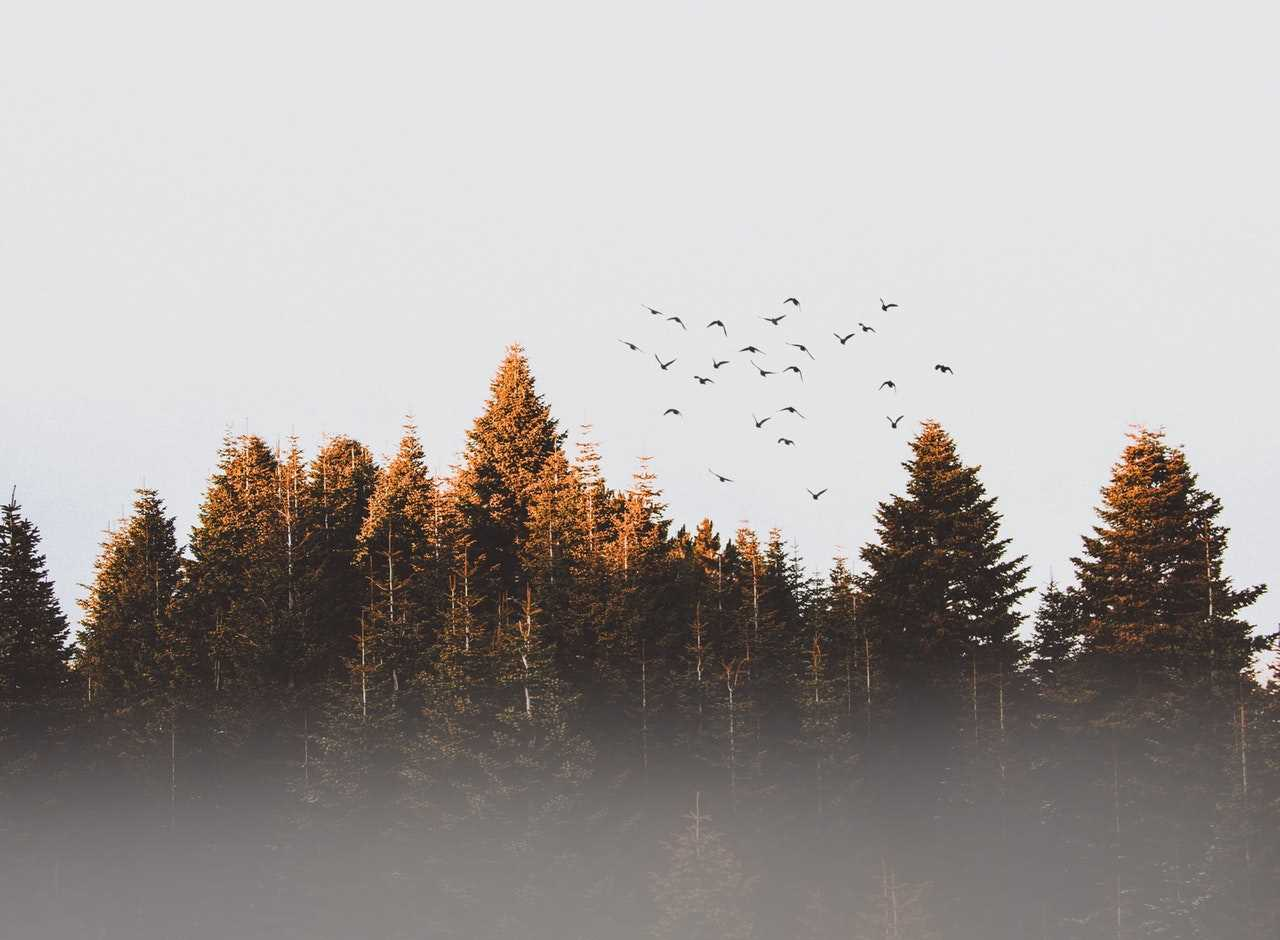
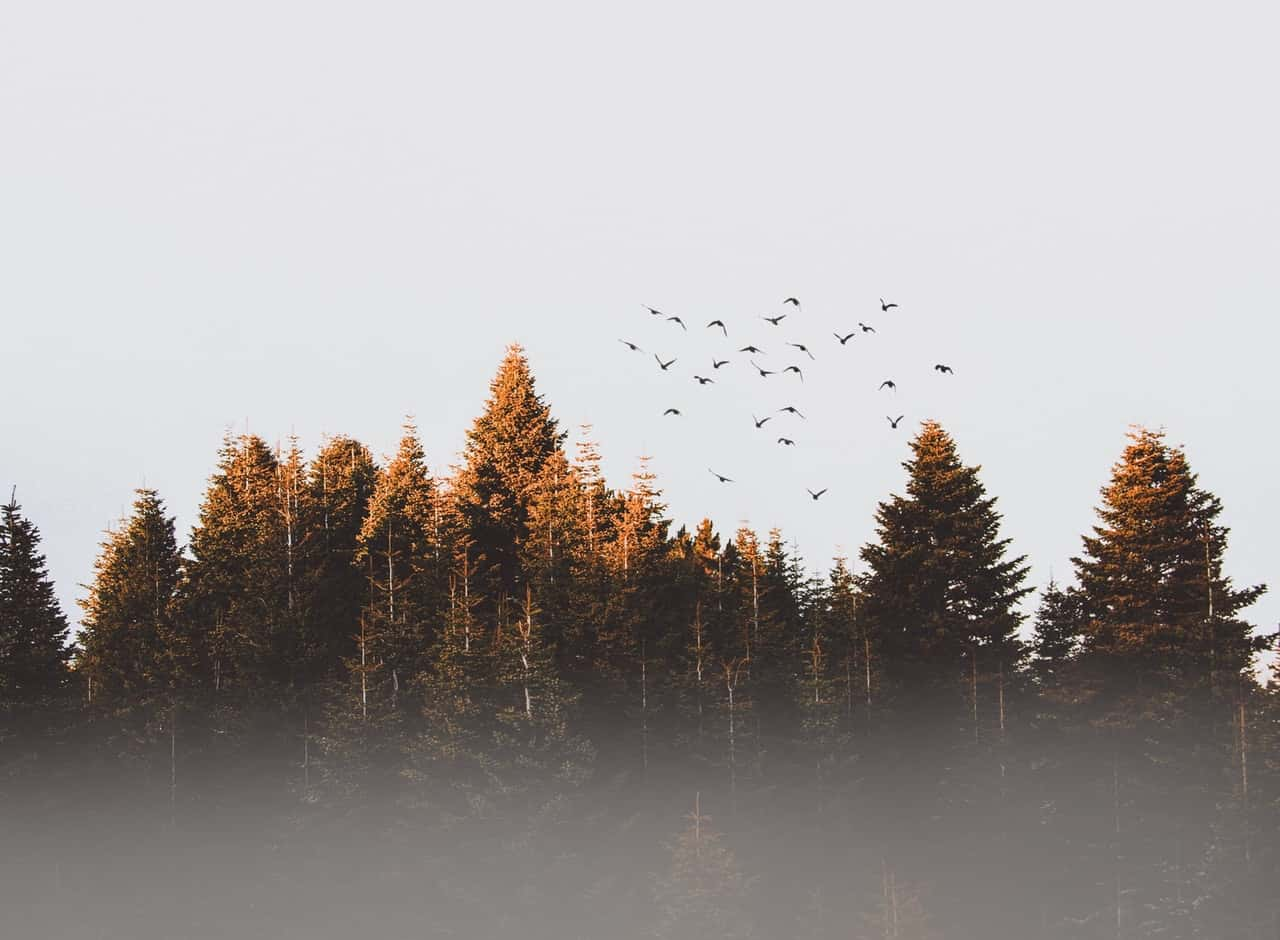
use progressive jpeg images

diff --git a/src/homepage.js b/src/homepage.js
@@ -3,36 +3,7 @@ import {Button, Container, Divider, Grid, Header, Image, List, Segment,} from 's
 
 const HomepageLayout = () => (
     <React.Fragment>
-            <Segment style={{padding: '8em 0em'}} vertical>
-                <Grid container stackable verticalAlign='middle'>
-                    <Grid.Row>
-                        <Grid.Column width={8}>
-                            <Header as='h3' style={{fontSize: '2em'}}>
-                                We Help Companies and Companions
-                            </Header>
-                            <p style={{fontSize: '1.33em'}}>
-                                We can give your company superpowers to do things that they never thought possible.
-                                Let us delight your customers and empower your needs... through pure data analytics.
-                            </p>
-                            <Header as='h3' style={{fontSize: '2em'}}>
-                                We Make Bananas That Can Dance
-                            </Header>
-                            <p style={{fontSize: '1.33em'}}>
-                                Yes that's right, you thought it was the stuff of dreams, but even bananas can be
-                                bioengineered.
-                            </p>
-                        </Grid.Column>
-                        <Grid.Column floated='right' width={6}>
-                            <Image bordered rounded size='large' src='/images/wireframe/white-image.png'/>
-                        </Grid.Column>
-                    </Grid.Row>
-                    <Grid.Row>
-                        <Grid.Column textAlign='center'>
-                            <Button size='huge'>Check Them Out</Button>
-                        </Grid.Column>
-                    </Grid.Row>
-                </Grid>
-            </Segment>
+
 
             <Segment style={{padding: '0em'}} vertical>
                 <Grid celled='internally' columns='equal' stackable>

diff --git a/src/pages/Home.js b/src/pages/Home.js
@@ -1,10 +1,28 @@
 import React from 'react';
+import {Grid, Header, Segment} from "semantic-ui-react";
+import SideBar from "../components/SideBar";
 
 const Home = () => {
     return (
-        <div>
-            <div style={{background : `url(${require('../images/13.jpg')})` , height:'150vh'}} />
-        </div>
+        <React.Fragment>
+            <Segment>
+                <Grid verticalAlign="middle" stackable divided="vertically">
+                    <Grid.Row color='grey'>
+                        <Grid.Column width={4}>
+                            <SideBar/>
+                        </Grid.Column>
+                        <Grid.Column width={8} floated="right">
+                            <h1>right side of the page</h1>
+                        </Grid.Column>
+                    </Grid.Row>
+                </Grid>
+            </Segment>
+            <Segment>
+                <Header as="h1" >
+                    new part of the site
+                </Header>
+            </Segment>
+        </React.Fragment>
     );
 };
 

diff --git a/src/App.js b/src/App.js
@@ -1,20 +1,17 @@
 import React, {Suspense} from 'react';
 import {Route, Switch} from 'react-router-dom';
-// import 'semantic-ui-css/semantic.min.css';
-import 'semantic-ui-offline/semantic.min.css'; //use offline version of google fonts
-import NavBarTitle from "./components/NavBar/NavBarTitle";
+import 'semantic-ui-css/semantic.min.css';
+import NavBar from "./components/NavBar/NavBar";
 
 const Home = React.lazy(() => import( "./pages/Home"));
 const Rezome = React.lazy(() => import("./pages/Rezome"));
 const PageNotFound = React.lazy(() => import("./pages/PageNotFound"));
-const NavBar = React.lazy(() => import("./components/NavBar/NavBar"));
+
 
 function App() {
     return (
         <div>
-            <Suspense fallback={<NavBarTitle/>}>
-                <NavBar/>
-            </Suspense>
+            <NavBar/>
             <Suspense fallback={<div>Loading...</div>}>
                 <Switch>
                     <Route exact path="/" component={Home}/>

diff --git a/src/components/ListCard.js b/src/components/ListCard.js
@@ -1,0 +1,26 @@
+import React from 'react';
+import {Card, Image} from "semantic-ui-react";
+// todo : add link to the page
+// todo : color and stuff
+const ListCard = () => {
+    return (
+        <React.Fragment>
+            <Card>
+                <Card.Content>
+                    <Image
+                        floated='right'
+                        size='mini'
+                        src={require("../images/1.jpg")}/>
+
+                    <Card.Header>Steve Sanders</Card.Header>
+                    <Card.Meta>Friends of Elliot</Card.Meta>
+                    <Card.Description>
+                        Steve wants to add you to the group <strong>best friends</strong>
+                    </Card.Description>
+                </Card.Content>
+            </Card>
+        </React.Fragment>
+    );
+};
+
+export default ListCard;

diff --git a/src/components/SideBar.js b/src/components/SideBar.js
@@ -1,0 +1,31 @@
+import React from 'react';
+import {List} from "semantic-ui-react";
+import ListCard from "./ListCard";
+
+const SideBar = () => {
+    return (
+        <React.Fragment>
+            <List relaxed='very' animated divided size="small">
+
+                <List.Item>
+                    <ListCard/>
+                </List.Item>
+
+                <List.Item>
+                    <ListCard/>
+                </List.Item>
+
+                <List.Item>
+                    <ListCard/>
+                </List.Item>
+
+                <List.Item>
+                    <ListCard/>
+                </List.Item>
+
+            </List>
+        </React.Fragment>
+    );
+};
+
+export default SideBar;

diff --git a/src/index.js b/src/index.js
@@ -13,4 +13,4 @@ ReactDOM.render(
 // If you want your app to work offline and load faster, you can change
 // unregister() to register() below. Note this comes with some pitfalls.
 // Learn more about service workers: https://bit.ly/CRA-PWA
-serviceWorker.unregister();
+serviceWorker.register();

diff --git a/src/components/NavBar/NavBarForMobiles.js b/src/components/NavBar/NavBarForMobiles.js
@@ -36,7 +36,6 @@ const NavBarForMobiles = () => {
                         size="huge"
                         fluid
                         vertical
-                        inverted
                         color="grey">
                         <MenuItems/>
                     </Menu>

diff --git a/src/pages/PageNotFound.js b/src/pages/PageNotFound.js
@@ -8,8 +8,4 @@ const PageNotFound = props => {
     );
 };
 
-PageNotFound.propTypes = {
-
-};
-
 export default PageNotFound;

diff --git a/src/pages/Rezome.js b/src/pages/Rezome.js
@@ -8,8 +8,4 @@ hello from rezome page
     );
 };
 
-Rezome.propTypes = {
-
-};
-
 export default Rezome;
